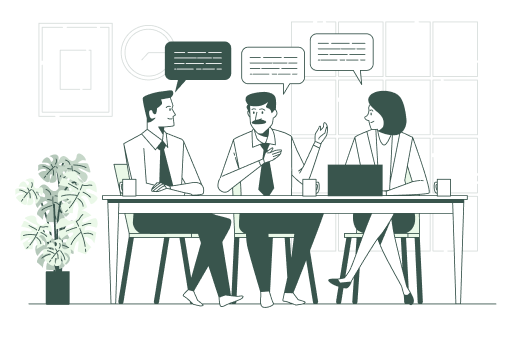
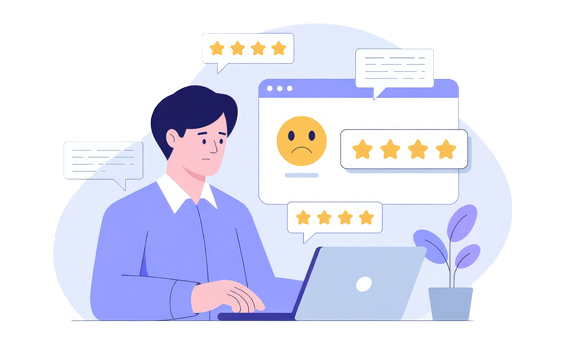
💄 Fixed some UI

diff --git a/src/Pages/About/Index.tsx b/src/Pages/About/Index.tsx
@@ -12,6 +12,8 @@ import values from '../../assets/values.png';
 import mission from '../../assets/mission.png';
 import vision from '../../assets/vision.png';
 import ciao from '../../assets/Caio.png';
+import richard from '../../assets/Richard.png';
+import { useEffect, useState } from 'react'
 
 function Hero() {
   return (
@@ -90,31 +92,90 @@ function SectionThree() {
 }
 
 function SectionFour() {
+  const [isWide, setIsWide] = useState(false);
+
+  useEffect(() => {
+    const checkWidth = () => setIsWide(window.innerWidth > 1440);
+    checkWidth();
+    window.addEventListener("resize", checkWidth);
+    return () => window.removeEventListener("resize", checkWidth);
+  }, []);
+
   return (
     <div className={styles["sect-four-wrapper"]}>
-      <div className={styles["four-top"]}>
-        <img src={values} alt="" />
-        <div className={styles["four-top-right"]}>
-          <h3>Our Values</h3>
-          <p>Development Before you invest in any technology, you need a plan. We work with you to assess your current state, identify key opportunities, and build a clear, phased roadmap for your digital journey.</p>
-        </div>
-      </div>
-      <div className={styles["four-bottom"]}>
-        <div className={styles["four-bottom-left"]}>
-          <img src={mission} alt="" />
-          <h3>Our Mission</h3>
-          <p>Drive innovation and empower businesses globally to embrace digitalization, attain sustainable growth, agility, and a more connected future.
-          </p>
-        </div>
-        <div className={styles["four-bottom-right"]}>
-          <img src={vision} alt="" />
-          <h3>Our Vision</h3>
-          <p>To be a leading power for good, enable every company does not matter how small to be connected to every corner of the world and utilize computing power to its full potential.
-          </p>
-        </div>
-      </div>
+      {isWide ? (
+        <>
+          <h2>Our Core Values</h2>
+          <div className={styles["four-bottom"]}>
+            <div className={styles["four-bottom-left"]}>
+              <img src={mission} alt="" />
+              <h3>Our Mission</h3>
+              <p>
+                Drive innovation and empower businesses globally to embrace
+                digitalization, attain sustainable growth, agility, and a more
+                connected future.
+              </p>
+            </div>
+            <div className={styles["four-bottom-right"]}>
+              <img src={vision} alt="" />
+              <h3>Our Vision</h3>
+              <p>
+                To be a leading power for good, enable every company does not
+                matter how small to be connected to every corner of the world
+                and utilize computing power to its full potential.
+              </p>
+            </div>
+            <div className={styles["four-top"]}>
+              <img className={styles["four-top-img"]} src={values} alt="" />
+              <h3>Our Values</h3>
+              <p>
+                Development Before you invest in any technology, you need a plan.
+                We work with you to assess your current state, identify key
+                opportunities, and build a clear, phased roadmap for your
+                digital journey.
+              </p>
+            </div>
+          </div>
+        </>
+      ) : (
+        <>
+          {/* Stacked layout (1440px and below) */}
+          <div className={styles["four-top"]}>
+            <img src={values} alt="" />
+            <div className={styles["four-top-right"]}>
+              <h3>Our Values</h3>
+              <p>
+                Development Before you invest in any technology, you need a plan.
+                We work with you to assess your current state, identify key
+                opportunities, and build a clear, phased roadmap for your
+                digital journey.
+              </p>
+            </div>
+          </div>
+          <div className={styles["four-bottom"]}>
+            <div className={styles["four-bottom-left"]}>
+              <img src={mission} alt="" />
+              <h3>Our Mission</h3>
+              <p>
+                Drive innovation and empower businesses globally to embrace
+                digitalization, attain sustainable growth, agility, and a more
+                connected future.
+              </p>
+            </div>
+            <div className={styles["four-bottom-right"]}>
+              <img src={vision} alt="" />
+              <h3>Our Vision</h3>
+              <p>
+                To be a leading power for good, enable every company does not
+                matter how small to be connected to every corner of the world
+                and utilize computing power to its full potential.
+              </p>
+            </div>
+          </div>
+        </>
+      )}
     </div>
-  )
+  );
 }
 
 function SectionFive() {
@@ -128,7 +189,7 @@ function SectionFive() {
           <h2>Caio Yoshida</h2>
           <h3>Chief Executive Officer</h3>
           <hr />
-          <p>Call out a feature, benefit, or value of your site, then link to a page where people can learn more about it.</p>
+          <p>A dynamic and results-driven Global Operations Leader with over 12 years of experience driving business growth across diverse international markets (APAC, China, LATAM), directing multi-country operations, and forging strategic vendor partnerships. Proven success in launching new business units, pioneering market entry into Brazil, and holding full P&L responsibility. A multilingual communicator (5 languages) dedicated to optimizing performance, obsessed about customer service delivery and achieving world-class operational excellence.</p>
         </div>
       </div>
       <div className={styles["sect-five-member"]}>
@@ -141,12 +202,12 @@ function SectionFive() {
         <img src={ciao} alt="" />
       </div>
       <div className={styles["sect-five-member"]}>
-        <img src={ciao} alt="" />
+        <img src={richard} alt="" />
         <div className={styles["sect-five-member-details"]}>
-          <h2>Caio Yoshida</h2>
-          <h3>Chief Executive Officer</h3>
+          <h2>Richard Cayrel</h2>
+          <h3>Chief Technology Officer</h3>
           <hr />
-          <p>Call out a feature, benefit, or value of your site, then link to a page where people can learn more about it.</p>
+          <p>A highly accomplished and certified Network Engineer with extensive expertise in designing, implementing, and securing complex enterprise and cloud network infrastructures. Proven ability to master emerging technologies, demonstrated by advanced certifications in Cisco (CCNP Enterprise), Microsoft Azure (Security and Network Engineer), and Cybersecurity (CompTIA Security+). A dedicated authority committed to building robust, scalable, and secure network solutions that drive business success.</p>
         </div>
       </div>
     </div>
@@ -154,7 +215,7 @@ function SectionFive() {
 }
 
 function SectionSix() {
-  return(
+  return (
     <div className={styles["sect-six-wrapper"]}>
       <h2>Ready to take your business to another level?</h2>
       <p>Let our Family help you with a strategic road map and the right tools to boost efficiency, connect with more customers, and secure your future growth.</p>
@@ -173,7 +234,7 @@ function About() {
       <SectionFour />
       <hr />
       <SectionFive />
-      <SectionSix/>
+      <SectionSix />
     </>
   )
 }

diff --git a/src/Pages/About/styles.module.scss b/src/Pages/About/styles.module.scss
@@ -100,16 +100,21 @@ hr {
     padding: 137px 84px;
     background: url('../../assets/gradient-bg.png') no-repeat center center;
     background-size: cover;
+    display: flex;
+    flex-direction: column;
+    align-items: center;
+    justify-content: center;
 }
 
 .three-top {
     display: flex;
+    gap: 38px;
 }
 
 .top-left {
     display: flex;
     flex-direction: column;
-    gap: 31px;
+    gap: 32px;
 }
 
 .top-left h3 {
@@ -122,12 +127,13 @@ hr {
     font-size: 18px !important;
     font-weight: 300 !important;
     margin: 0;
+    width: 868px !important;
 }
 
 .abt-btn-wrapper {
     margin-top: 32px;
     background: rgba(0, 0, 0, 0.2);
-    padding: .4rem;
+    padding: 5px 9px;
     border-radius: 4.78px;
 }
 
@@ -144,7 +150,7 @@ hr {
 
 .three-bottom {
     display: flex;
-    gap: 20px;
+    gap: 18px;
     margin-top: 40px;
 }
 
@@ -157,7 +163,7 @@ hr {
     box-shadow: 0 4px 30px rgba(0, 0, 0, 0.1);
     transition: transform 0.3s ease, box-shadow 0.3s ease;
     flex: 1;
-    max-width: 300px;
+    width: calc(281.5px - 46px);
 }
 
 .three-card:hover {
@@ -198,6 +204,7 @@ hr {
     padding: calc(47px - 32px);
 }
 
+
 .sect-four-wrapper {
     display: flex;
     flex-direction: column;
@@ -209,7 +216,28 @@ hr {
     display: flex;
 }
 
-.four-top img {
+@media (min-width: 1441px) {
+    .sect-four-wrapper h2 {
+        gap: 0 !important;
+        margin: 0;
+    }
+
+    .four-top {
+        display: flex;
+        flex-direction: column;
+        flex: 1;
+        justify-content: center;
+    }
+
+    .four-top-img {
+        width: 322px !important;
+        height: 240px !important;
+        margin: 0;
+        padding: 0;
+    }
+}
+
+.four-top-img {
     width: 473px;
     height: 343px;
 }
@@ -307,17 +335,18 @@ hr {
     gap: 24px;
 }
 
-.sect-six-wrapper h2{
+.sect-six-wrapper h2 {
     white-space: nowrap;
     color: white !important;
     margin: 0;
 }
-.sect-six-wrapper p{
+
+.sect-six-wrapper p {
     color: white !important;
     margin: 0;
 }
 
-.sect-six-wrapper .abt-btn-wrapper{
+.sect-six-wrapper .abt-btn-wrapper {
     margin-top: 0 !important;
     background: rgba(0, 0, 0, 0.2);
     padding: .4rem;

diff --git a/src/Pages/Home/Index.tsx b/src/Pages/Home/Index.tsx
@@ -73,9 +73,21 @@ function ThirdSection() {
 function FourthSection() {
   const [currentIndex, setCurrentIndex] = useState(0);
   const videos = [
-    { id: 1, src: vid },
-    { id: 2, src: vid },
-    { id: 3, src: vid }
+    { 
+      id: 1, 
+      embedUrl: "https://www.youtube.com/embed/2PVGkEGMdu0?si=CB7J-C6g8JOi8nxG",
+      title: "YouTube video player 1"
+    },
+    { 
+      id: 2, 
+      embedUrl: "https://www.youtube.com/embed/lDYwJdrKgQg?si=fNIB_RRbDvCHCA-R",
+      title: "YouTube video player 2"
+    },
+    { 
+      id: 3, 
+      embedUrl: "https://www.youtube.com/embed/QlIBQi3vh_Q?si=4xDS_eR6Z8aXxpD7",
+      title: "YouTube video player 3"
+    }
   ];
 
   const nextSlide = () => {
@@ -119,13 +131,15 @@ function FourthSection() {
             >
               {videos.map((video) => (
                 <div key={video.id} className={styles['carousel-slide']}>
-                  <video
-                    className={styles['carousel-video']}
-                    src={video.src}
-                    autoPlay
-                    loop
-                    muted
-                    playsInline
+                  <iframe
+                    width="100%"
+                    height="100%"
+                    src={video.embedUrl}
+                    title={video.title}
+                    frameBorder="0"
+                    allow="accelerometer; autoplay; clipboard-write; encrypted-media; gyroscope; picture-in-picture"
+                    allowFullScreen
+                    className={styles['youtube-embed']}
                   />
                 </div>
               ))}

diff --git a/src/Pages/Home/styles.module.scss b/src/Pages/Home/styles.module.scss
@@ -332,13 +332,26 @@
     padding-top: 56.25%; /* 16:9 Aspect Ratio */
 }
 
-.carousel-video {
+.carousel-video,
+.youtube-embed {
     position: absolute;
     top: 0;
     left: 0;
     width: 100%;
     height: 100%;
-    object-fit: cover;
+    border: none;
+    border-radius: 29px;
+}
+
+/* Ensure proper aspect ratio for YouTube embeds */
+.youtube-embed {
+    object-fit: contain;
+    background: #000;
+}
+
+/* Hide video element since we're using iframe */
+.carousel-video {
+    display: none;
 }
 
 .indicator-wrapper {
@@ -368,8 +381,10 @@
 
 .fth-section {
     display: flex;
-    justify-content: space-between;
-    padding: 108px 138px;
+    justify-content: center;
+    align-items: center;
+    gap: 185px;
+    padding: 108px 0;
     position: relative;
     overflow: hidden;
     

diff --git a/src/Components/Navbar/styles.module.scss b/src/Components/Navbar/styles.module.scss
@@ -1,12 +1,16 @@
 .nav-wrapper {
-  width: calc(100% - 164px);
+  width: 100%;
   height: 80px;
   background-color: #000000;
   display: flex;
   flex-direction: row;
   padding: 0 82px;
   align-items: center;
-  position: relative;
+  position: sticky;
+  top: 0;
+  left: 0;
+  z-index: 1000;
+  box-sizing: border-box;
 }
 
 .nav-wrapper img {
